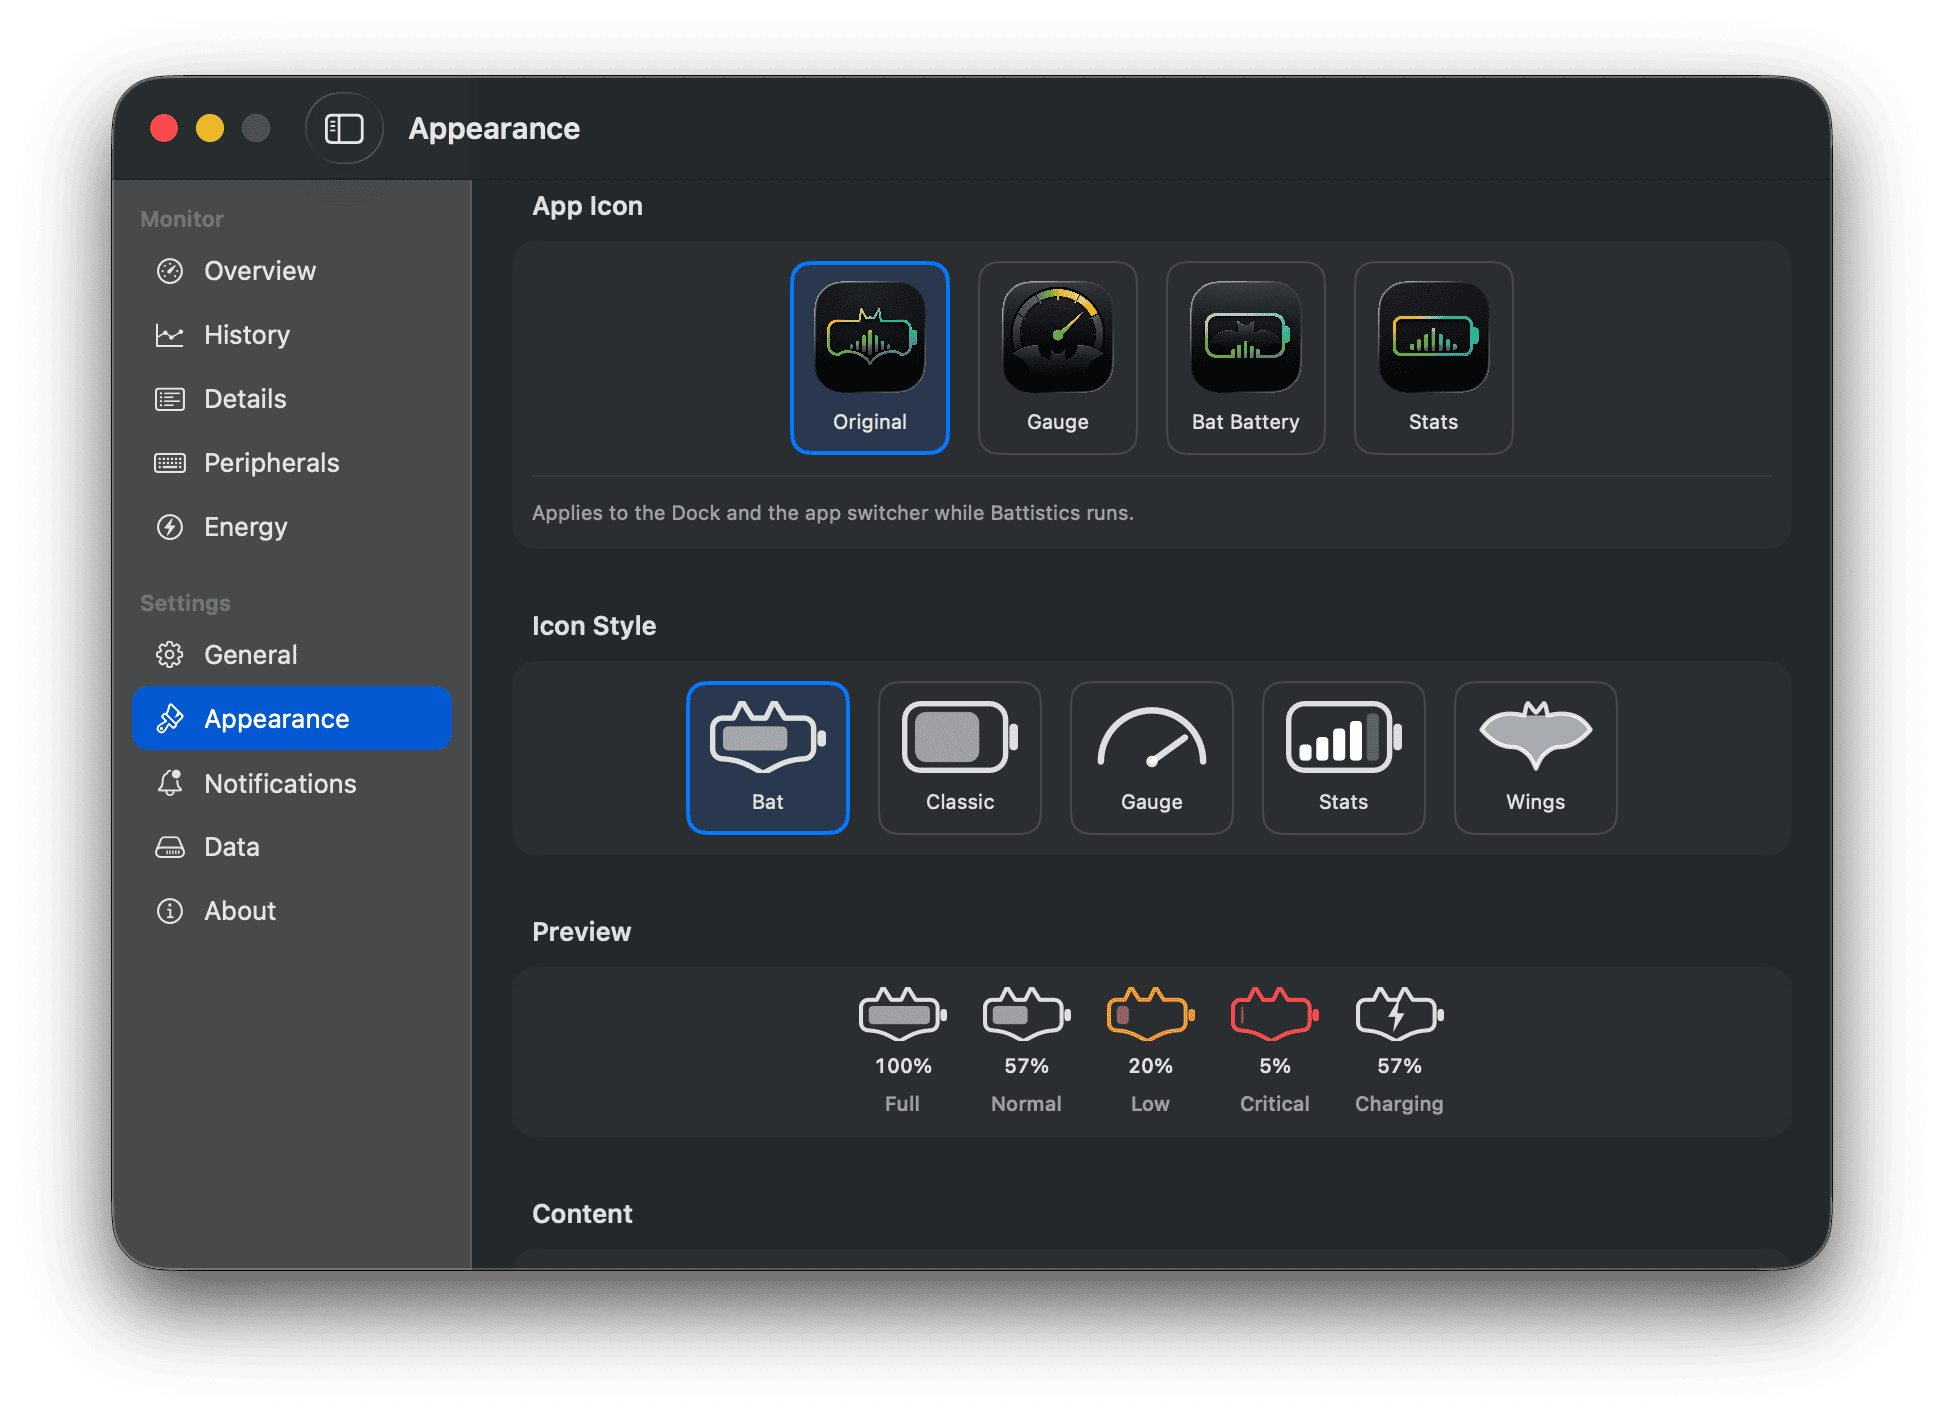
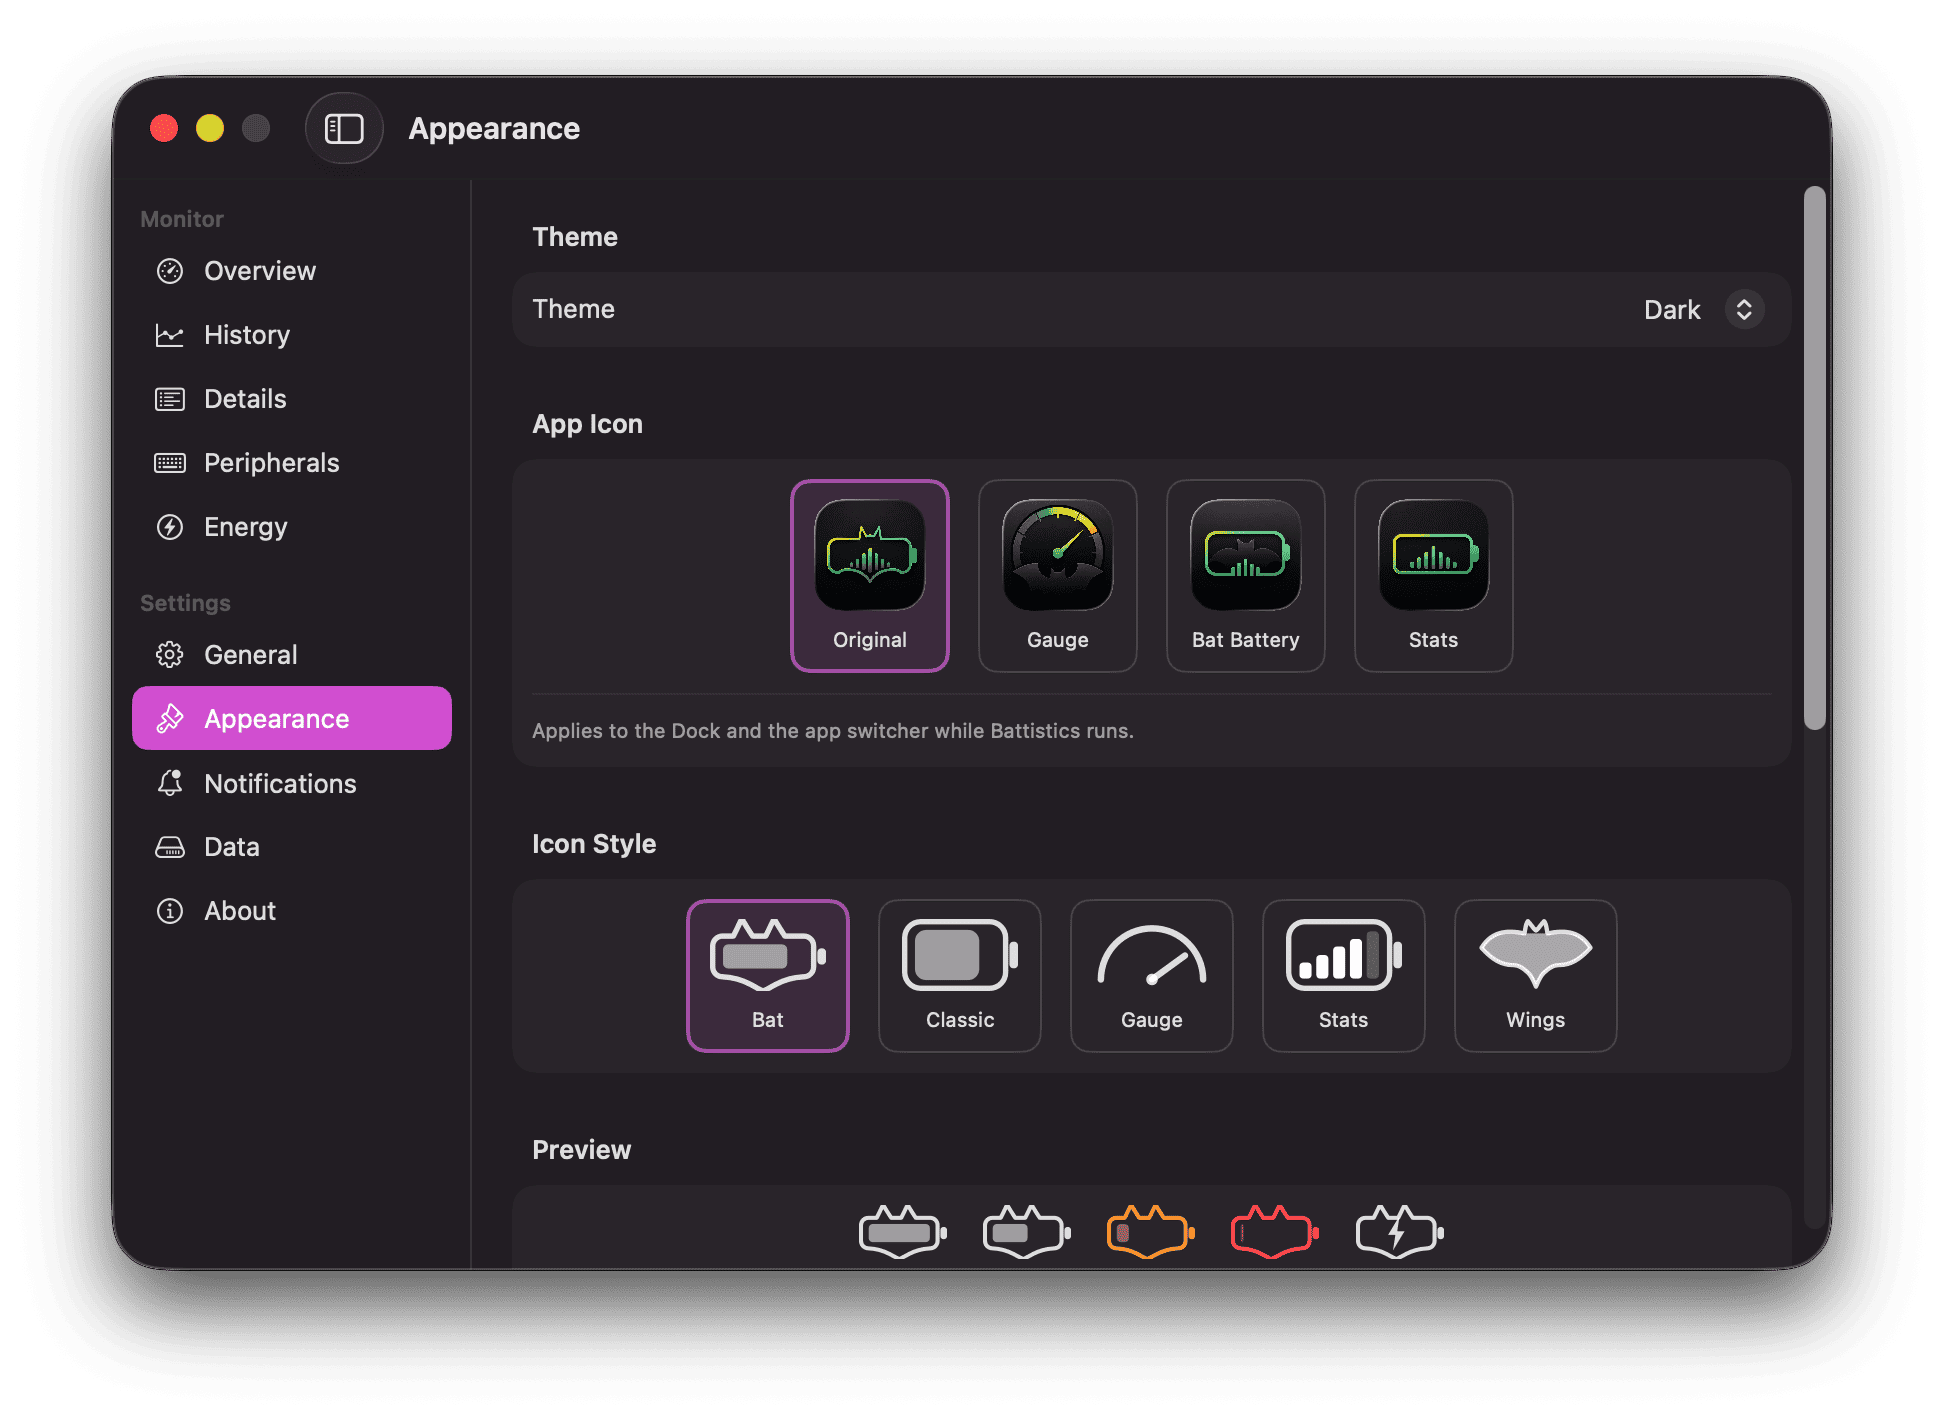
Refresh README screenshots, changelog for 1.0.1

diff --git a/CHANGELOG.md b/CHANGELOG.md
@@ -1,5 +1,10 @@
 # Changelog
 
+## 1.0.1
+
+- Uniform dashboard background: the sidebar is no longer translucent
+- Refreshed README screenshots
+
 ## 1.0.0
 
 First public release.
